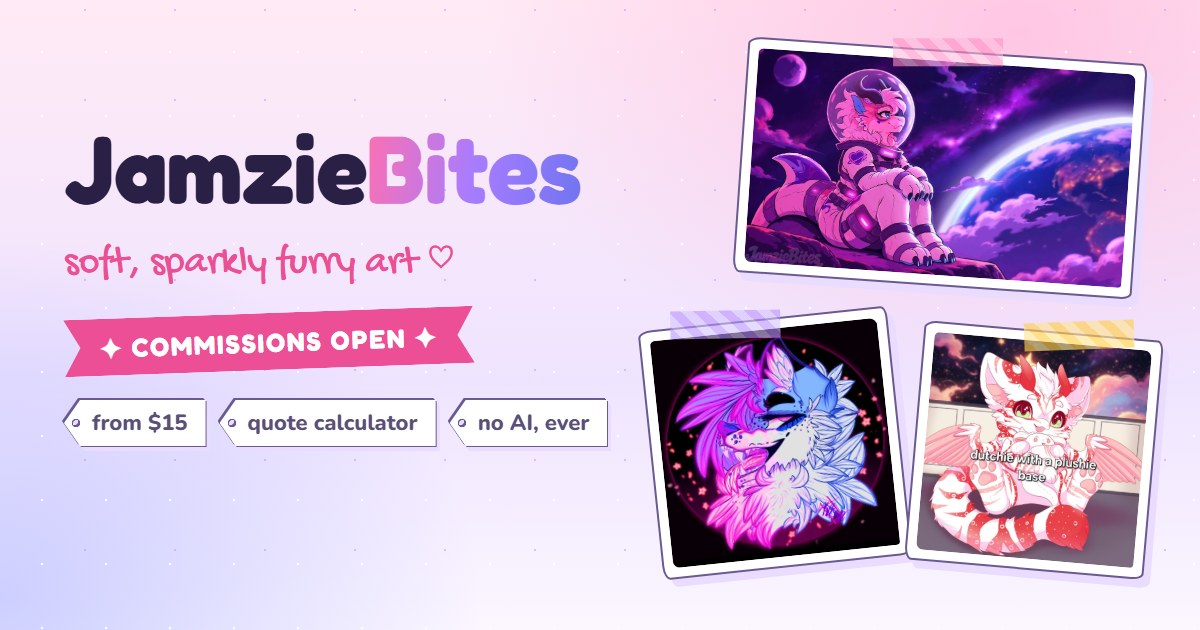
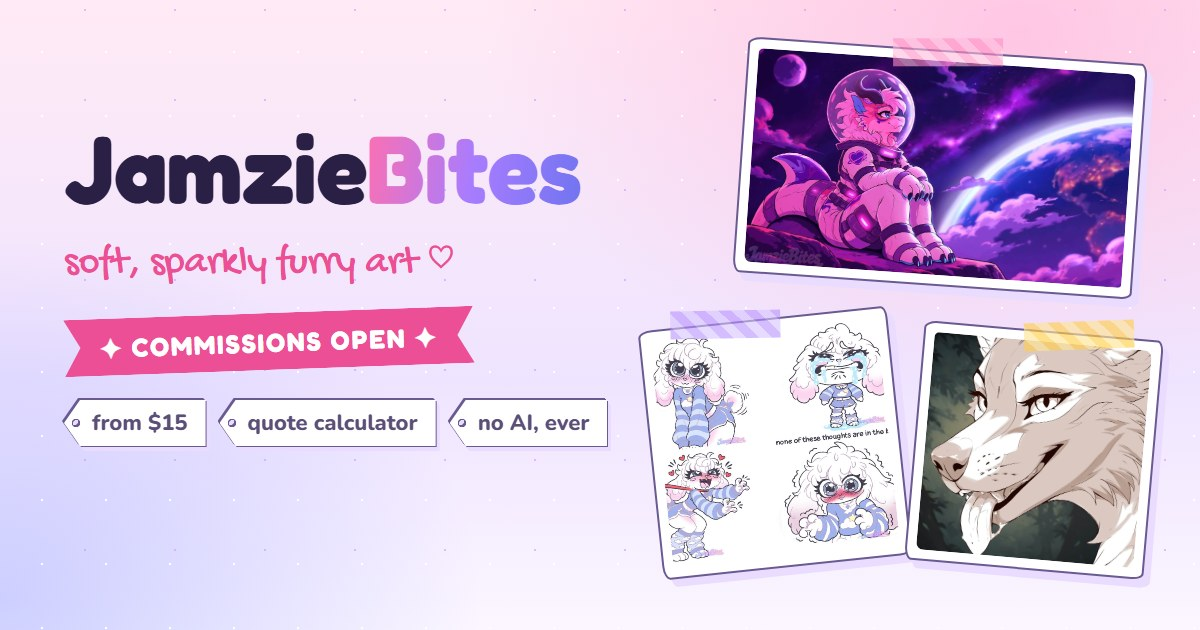
Remove older-style gallery pieces at Jamzie's request
Drops the 7 older FurAffinity pieces from the gallery, image data,
landing pages and share image, and deletes their files.

Changed region(s): [[0.5242, 0.4825, 0.9558, 0.9048]]

diff --git a/index.html b/index.html
@@ -155,97 +155,6 @@
         "copyrightNotice": "© JamzieBites. All rights reserved.",
         "license": "https://jamziebites.com/tos.html#ai",
         "acquireLicensePage": "https://jamziebites.com/#request"
-      },
-      {
-        "@type": "ImageObject",
-        "contentUrl": "https://jamziebites.com/assets/art/sm/campfire-stories.jpg",
-        "name": "Campfire Stories",
-        "description": "Three fluffy pale canine cubs in hoodies sit around a glowing campfire in a dark autumn forest, laughing and telling stories. Captioned 'CampFire Stories Base'.",
-        "creator": {
-          "@id": "https://jamziebites.com/#jamzie"
-        },
-        "creditText": "JamzieBites",
-        "copyrightNotice": "© JamzieBites. All rights reserved.",
-        "license": "https://jamziebites.com/tos.html#ai",
-        "acquireLicensePage": "https://jamziebites.com/#request"
-      },
-      {
-        "@type": "ImageObject",
-        "contentUrl": "https://jamziebites.com/assets/art/sm/dutchie-plushie.jpg",
-        "name": "Dutchie & Plushie",
-        "description": "A white and red striped Dutch angel dragon with pink feathered wings and little red horns hugs a matching plushie against a pink starry sky. Captioned 'dutchie with a plushie base'.",
-        "creator": {
-          "@id": "https://jamziebites.com/#jamzie"
-        },
-        "creditText": "JamzieBites",
-        "copyrightNotice": "© JamzieBites. All rights reserved.",
-        "license": "https://jamziebites.com/tos.html#ai",
-        "acquireLicensePage": "https://jamziebites.com/#request"
-      },
-      {
-        "@type": "ImageObject",
-        "contentUrl": "https://jamziebites.com/assets/art/sm/sweater-weather.jpg",
-        "name": "Sweater Weather",
-        "description": "A fluffy white canine wrapped in a plaid blanket and knit beanie holds a steaming mug by a window with falling autumn leaves and a lit candle. Captioned 'Sweater weather base'.",
-        "creator": {
-          "@id": "https://jamziebites.com/#jamzie"
-        },
-        "creditText": "JamzieBites",
-        "copyrightNotice": "© JamzieBites. All rights reserved.",
-        "license": "https://jamziebites.com/tos.html#ai",
-        "acquireLicensePage": "https://jamziebites.com/#request"
-      },
-      {
-        "@type": "ImageObject",
-        "contentUrl": "https://jamziebites.com/assets/art/sm/ice-storm-dragon.jpg",
-        "name": "Dragon of Ice and Storm",
-        "description": "Side-profile headshot of a pale pink and icy blue feathered dragon with a glowing outline and a thin gold chain piercing, on a soft purple background.",
-        "creator": {
-          "@id": "https://jamziebites.com/#jamzie"
-        },
-        "creditText": "JamzieBites",
-        "copyrightNotice": "© JamzieBites. All rights reserved.",
-        "license": "https://jamziebites.com/tos.html#ai",
-        "acquireLicensePage": "https://jamziebites.com/#request"
-      },
-      {
-        "@type": "ImageObject",
-        "contentUrl": "https://jamziebites.com/assets/art/sm/sakura-blood.jpg",
-        "name": "Sakura Blood",
-        "description": "Neon pink, blue and white fluffy canine icon with a big open grin, framed in a dark circle with drifting sakura petals.",
-        "creator": {
-          "@id": "https://jamziebites.com/#jamzie"
-        },
-        "creditText": "JamzieBites",
-        "copyrightNotice": "© JamzieBites. All rights reserved.",
-        "license": "https://jamziebites.com/tos.html#ai",
-        "acquireLicensePage": "https://jamziebites.com/#request"
-      },
-      {
-        "@type": "ImageObject",
-        "contentUrl": "https://jamziebites.com/assets/art/sm/cherry-headshot.jpg",
-        "name": "Cherry",
-        "description": "Grinning red and cream canine with spiky crimson fur, cherry earrings and freckles, swirling cloud-like cream fur, and red flower shapes on a deep red background.",
-        "creator": {
-          "@id": "https://jamziebites.com/#jamzie"
-        },
-        "creditText": "JamzieBites",
-        "copyrightNotice": "© JamzieBites. All rights reserved.",
-        "license": "https://jamziebites.com/tos.html#ai",
-        "acquireLicensePage": "https://jamziebites.com/#request"
-      },
-      {
-        "@type": "ImageObject",
-        "contentUrl": "https://jamziebites.com/assets/art/sm/orchid-mantis-dutchie.jpg",
-        "name": "Orchid Mantis Dutchie",
-        "description": "Reference sheet for a pastel pink and blue orchid-mantis Dutch angel dragon with feathered wings and blossoms, showing a headshot, full body, eye details, a color palette and an orchid mantis photo for reference.",
-        "creator": {
-          "@id": "https://jamziebites.com/#jamzie"
-        },
-        "creditText": "JamzieBites",
-        "copyrightNotice": "© JamzieBites. All rights reserved.",
-        "license": "https://jamziebites.com/tos.html#ai",
-        "acquireLicensePage": "https://jamziebites.com/#request"
       }
     ]
   }

diff --git a/config.js b/config.js
@@ -146,55 +146,6 @@ window.JAMZIE = {
       category: "headshot",
       tier: "Headshot",
       alt: "Close-up headshot of a pale, cream-toned canine with long lashes and a wide, happy grin, tongue out, in front of a soft dark forest background."
-    },
-    {
-      src: "assets/art/campfire-stories.jpg", thumb: "assets/art/sm/campfire-stories.jpg", w: 2000, h: 1334,
-      title: "Campfire Stories",
-      category: "fullbody",
-      tier: "Full Body · Base / YCH",
-      alt: "Three fluffy pale canine cubs in hoodies sit around a glowing campfire in a dark autumn forest, laughing and telling stories. Captioned 'CampFire Stories Base'."
-    },
-    {
-      src: "assets/art/dutchie-plushie.jpg", thumb: "assets/art/sm/dutchie-plushie.jpg", w: 1906, h: 1933,
-      title: "Dutchie & Plushie",
-      category: "fullbody",
-      tier: "Full Body · Base / YCH",
-      alt: "A white and red striped Dutch angel dragon with pink feathered wings and little red horns hugs a matching plushie against a pink starry sky. Captioned 'dutchie with a plushie base'."
-    },
-    {
-      src: "assets/art/sweater-weather.jpg", thumb: "assets/art/sm/sweater-weather.jpg", w: 1080, h: 1040,
-      title: "Sweater Weather",
-      category: "fullbody",
-      tier: "Full Body · Base / YCH",
-      alt: "A fluffy white canine wrapped in a plaid blanket and knit beanie holds a steaming mug by a window with falling autumn leaves and a lit candle. Captioned 'Sweater weather base'."
-    },
-    {
-      src: "assets/art/ice-storm-dragon.jpg", thumb: "assets/art/sm/ice-storm-dragon.jpg", w: 1080, h: 1008,
-      title: "Dragon of Ice and Storm",
-      category: "headshot",
-      tier: "Headshot",
-      alt: "Side-profile headshot of a pale pink and icy blue feathered dragon with a glowing outline and a thin gold chain piercing, on a soft purple background."
-    },
-    {
-      src: "assets/art/sakura-blood.jpg", thumb: "assets/art/sm/sakura-blood.jpg", w: 1065, h: 1009,
-      title: "Sakura Blood",
-      category: "headshot",
-      tier: "Headshot / Icon",
-      alt: "Neon pink, blue and white fluffy canine icon with a big open grin, framed in a dark circle with drifting sakura petals."
-    },
-    {
-      src: "assets/art/cherry-headshot.jpg", thumb: "assets/art/sm/cherry-headshot.jpg", w: 1228, h: 1128,
-      title: "Cherry",
-      category: "headshot",
-      tier: "Headshot",
-      alt: "Grinning red and cream canine with spiky crimson fur, cherry earrings and freckles, swirling cloud-like cream fur, and red flower shapes on a deep red background."
-    },
-    {
-      src: "assets/art/orchid-mantis-dutchie.jpg", thumb: "assets/art/sm/orchid-mantis-dutchie.jpg", w: 1280, h: 960,
-      title: "Orchid Mantis Dutchie",
-      category: "refsheet",
-      tier: "Adopt · Reference Sheet",
-      alt: "Reference sheet for a pastel pink and blue orchid-mantis Dutch angel dragon with feathered wings and blossoms, showing a headshot, full body, eye details, a color palette and an orchid mantis photo for reference."
     }
   ],
 

diff --git a/cinematic-furry-art.html b/cinematic-furry-art.html
@@ -87,7 +87,7 @@
       <div class="container">
         <div class="section-head"><div class="eyebrow">examples</div><h2>Some of my <span class="grad-text">work</span></h2><p>Click any piece to see it big. The <a href="index.html#gallery">full gallery</a> has more.</p></div>
         <div class="gallery landing-examples">
-          <a class="gallery-item" href="assets/art/stargazer-astronaut.jpg" target="_blank" rel="noopener"><img src="assets/art/sm/stargazer-astronaut.jpg" alt="A fluffy pink dragon-shark astronaut on a rock gazing at a glowing purple planet." loading="lazy" decoding="async"><span class="meta"><strong>Stargazer</strong><span>Cinematic Illustration</span></span></a><a class="gallery-item" href="assets/art/porch-moonlight.jpg" target="_blank" rel="noopener"><img src="assets/art/sm/porch-moonlight.jpg" alt="A pink and white dragon-shark lounging on porch steps at night under string lights and a full moon." loading="lazy" decoding="async"><span class="meta"><strong>Porch Light</strong><span>Full Body · Full Render · Detailed Scenery</span></span></a><a class="gallery-item" href="assets/art/sakura-blood.jpg" target="_blank" rel="noopener"><img src="assets/art/sm/sakura-blood.jpg" alt="Neon pink and blue fluffy canine icon with drifting sakura petals." loading="lazy" decoding="async"><span class="meta"><strong>Sakura Blood</strong><span>Headshot / Icon</span></span></a>
+          <a class="gallery-item" href="assets/art/stargazer-astronaut.jpg" target="_blank" rel="noopener"><img src="assets/art/sm/stargazer-astronaut.jpg" alt="A fluffy pink dragon-shark astronaut on a rock gazing at a glowing purple planet." loading="lazy" decoding="async"><span class="meta"><strong>Stargazer</strong><span>Cinematic Illustration</span></span></a><a class="gallery-item" href="assets/art/porch-moonlight.jpg" target="_blank" rel="noopener"><img src="assets/art/sm/porch-moonlight.jpg" alt="A pink and white dragon-shark lounging on porch steps at night under string lights and a full moon." loading="lazy" decoding="async"><span class="meta"><strong>Porch Light</strong><span>Full Body · Full Render · Detailed Scenery</span></span></a><a class="gallery-item" href="assets/art/sweet-grin-headshot.jpg" target="_blank" rel="noopener"><img src="assets/art/sm/sweet-grin-headshot.jpg" alt="Close-up headshot of a cream-toned canine with long lashes and a wide, happy grin." loading="lazy" decoding="async"><span class="meta"><strong>Sweet Grin</strong><span>Headshot</span></span></a>
         </div>
       </div>
     </section>

diff --git a/ref-sheet-commissions.html b/ref-sheet-commissions.html
@@ -87,7 +87,7 @@
       <div class="container">
         <div class="section-head"><div class="eyebrow">examples</div><h2>Some of my <span class="grad-text">work</span></h2><p>Click any piece to see it big. The <a href="index.html#gallery">full gallery</a> has more.</p></div>
         <div class="gallery landing-examples">
-          <a class="gallery-item" href="assets/art/lunaari-ref-sheet.jpg" target="_blank" rel="noopener"><img src="assets/art/sm/lunaari-ref-sheet.jpg" alt="Reference sheet of Lunaari, a black and white bat creature with iridescent wings, shown front, back and side." loading="lazy" decoding="async"><span class="meta"><strong>Lunaari</strong><span>Reference Sheet</span></span></a><a class="gallery-item" href="assets/art/monarch-fox-ref-sheet.jpg" target="_blank" rel="noopener"><img src="assets/art/sm/monarch-fox-ref-sheet.jpg" alt="Reference sheet of an orange fox with monarch butterfly wings, shown front and back with a color palette." loading="lazy" decoding="async"><span class="meta"><strong>Monarch Fox</strong><span>Reference Sheet</span></span></a><a class="gallery-item" href="assets/art/orchid-mantis-dutchie.jpg" target="_blank" rel="noopener"><img src="assets/art/sm/orchid-mantis-dutchie.jpg" alt="Reference sheet for a pastel orchid-mantis Dutch angel dragon with feathered wings and blossoms." loading="lazy" decoding="async"><span class="meta"><strong>Orchid Mantis Dutchie</strong><span>Adopt · Reference Sheet</span></span></a>
+          <a class="gallery-item" href="assets/art/lunaari-ref-sheet.jpg" target="_blank" rel="noopener"><img src="assets/art/sm/lunaari-ref-sheet.jpg" alt="Reference sheet of Lunaari, a black and white bat creature with iridescent wings, shown front, back and side." loading="lazy" decoding="async"><span class="meta"><strong>Lunaari</strong><span>Reference Sheet</span></span></a><a class="gallery-item" href="assets/art/monarch-fox-ref-sheet.jpg" target="_blank" rel="noopener"><img src="assets/art/sm/monarch-fox-ref-sheet.jpg" alt="Reference sheet of an orange fox with monarch butterfly wings, shown front and back with a color palette." loading="lazy" decoding="async"><span class="meta"><strong>Monarch Fox</strong><span>Reference Sheet</span></span></a>
         </div>
       </div>
     </section>

diff --git a/chibi-commissions.html b/chibi-commissions.html
@@ -87,7 +87,7 @@
       <div class="container">
         <div class="section-head"><div class="eyebrow">examples</div><h2>Some of my <span class="grad-text">work</span></h2><p>Click any piece to see it big. The <a href="index.html#gallery">full gallery</a> has more.</p></div>
         <div class="gallery landing-examples">
-          <a class="gallery-item" href="assets/art/poodle-chibi-sheet.jpg" target="_blank" rel="noopener"><img src="assets/art/sm/poodle-chibi-sheet.jpg" alt="Sheet of four chibi poodle expressions in a striped sweater: shy, sobbing, excited and blushing." loading="lazy" decoding="async"><span class="meta"><strong>Poodle Moods</strong><span>Expression / Sticker Sheet</span></span></a><a class="gallery-item" href="assets/art/dutchie-plushie.jpg" target="_blank" rel="noopener"><img src="assets/art/sm/dutchie-plushie.jpg" alt="A white and red striped Dutch angel dragon with pink wings hugging a matching plushie." loading="lazy" decoding="async"><span class="meta"><strong>Dutchie &amp; Plushie</strong><span>Cute style</span></span></a><a class="gallery-item" href="assets/art/campfire-stories.jpg" target="_blank" rel="noopener"><img src="assets/art/sm/campfire-stories.jpg" alt="Three fluffy canine cubs in hoodies laughing around a campfire." loading="lazy" decoding="async"><span class="meta"><strong>Campfire Stories</strong><span>Cute style</span></span></a>
+          <a class="gallery-item" href="assets/art/poodle-chibi-sheet.jpg" target="_blank" rel="noopener"><img src="assets/art/sm/poodle-chibi-sheet.jpg" alt="Sheet of four chibi poodle expressions in a striped sweater: shy, sobbing, excited and blushing." loading="lazy" decoding="async"><span class="meta"><strong>Poodle Moods</strong><span>Expression / Sticker Sheet</span></span></a><a class="gallery-item" href="assets/art/sweet-grin-headshot.jpg" target="_blank" rel="noopener"><img src="assets/art/sm/sweet-grin-headshot.jpg" alt="Close-up headshot of a cream-toned canine with long lashes and a wide, happy grin." loading="lazy" decoding="async"><span class="meta"><strong>Sweet Grin</strong><span>Headshot</span></span></a>
         </div>
       </div>
     </section>
